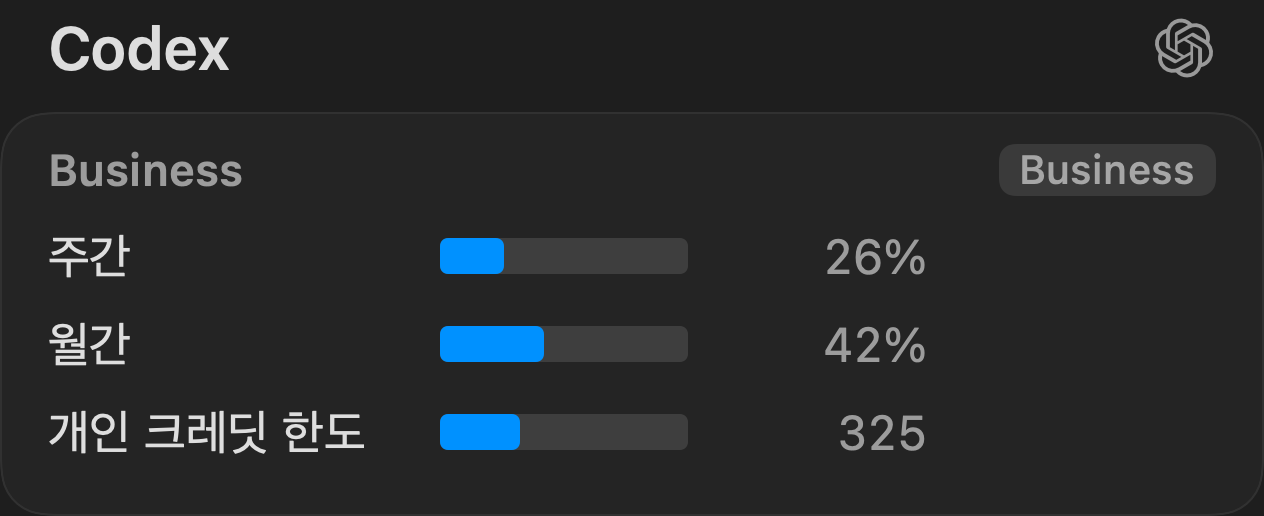
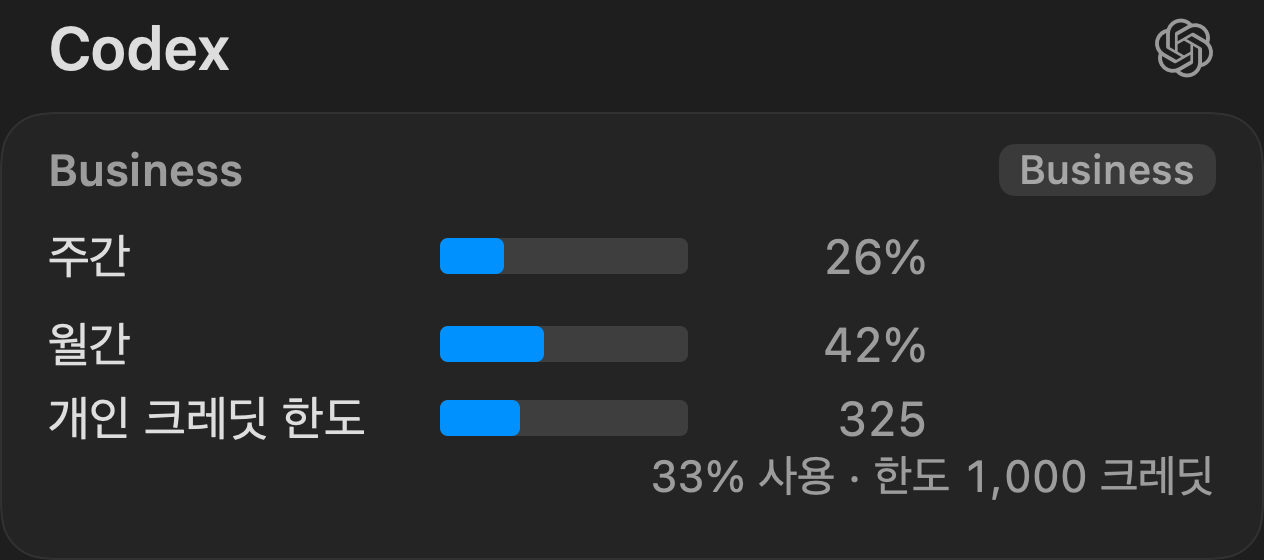
fix(codex): show individual credit allowance and utilization

diff --git a/Tests/EgasuTests/CodexDashboardRenderingTests.swift b/Tests/EgasuTests/CodexDashboardRenderingTests.swift
@@ -3,6 +3,51 @@ import XCTest
 @testable import Egasu
 
 extension DashboardSnapshotTests {
+    func testCodexBusinessPersonalLimitSummaryFollowsUsedAndLeft() {
+        var data = WidgetData(
+            title: "Individual Credits", icon: .providerMark("codex"), kind: .count, used: 898.386, limit: 2500)
+        let id = "codex@fixture.individualCredits"
+        for (language, used, left) in [
+            (LanguageSetting.english, "36% used · Limit 2,500 credits", "64% left · Limit 2,500 credits"),
+            (.korean, "36% 사용 · 한도 2,500 크레딧", "64% 남음 · 한도 2,500 크레딧"),
+            (.japanese, "36% 使用済み · 上限 2,500 クレジット", "残り 64% · 上限 2,500 クレジット")
+        ] {
+            L10n.withLanguage(language) {
+                data.displayMode = .used
+                let row = line(id, data).dashboardRow()
+                XCTAssertEqual(row.limitSummary, used)
+                guard case .bar(_, _, let value, _, _) = row.mark else { return XCTFail("Missing credit meter") }
+                XCTAssertEqual(value, "898.4")
+                data.displayMode = .remaining
+                XCTAssertEqual(line(id, data).dashboardRow().limitSummary, left)
+            }
+        }
+        L10n.withLanguage(.english) {
+            data.limit = 1000
+            data.used = 325
+            data.displayMode = .used
+            XCTAssertEqual(line(id, data).dashboardRow().limitSummary, "33% used · Limit 1,000 credits")
+            data.displayMode = .remaining
+            XCTAssertEqual(line(id, data).dashboardRow().limitSummary, "68% left · Limit 1,000 credits")
+
+            data.limit = 2500
+            data.used = 2500
+            data.displayMode = .used
+            XCTAssertEqual(line(id, data).dashboardRow().limitSummary, "100% used · Limit 2,500 credits")
+            data.displayMode = .remaining
+            XCTAssertEqual(line(id, data).dashboardRow().limitSummary, "0% left · Limit 2,500 credits")
+            data.used = 3000
+            data.displayMode = .used
+            let overLimit = line(id, data).dashboardRow()
+            XCTAssertEqual(overLimit.limitSummary, "120% used · Limit 2,500 credits")
+            guard case .bar(let fill, _, _, _, _) = overLimit.mark else { return XCTFail("Missing credit meter") }
+            XCTAssertEqual(fill, 1)
+            data.displayMode = .remaining
+            XCTAssertEqual(line(id, data).dashboardRow().limitSummary, "0% left · Limit 2,500 credits")
+            XCTAssertNil(line("codex@fixture.monthly", data).dashboardRow().limitSummary)
+        }
+    }
+
     func testCodexBusinessIndividualCreditsRenderOnlyOnTheAccountWithAReportedLimit() throws {
         let now = Date()
         let accountID = "codex@fixture"
@@ -28,11 +73,21 @@ extension DashboardSnapshotTests {
         try L10n.withLanguage(.korean) {
             let account = DashboardAccount(provider: runtime.provider, providerName: "Codex", name: "Business", lines: rows)
             let family = DashboardFamily(id: "codex", provider: runtime.provider, displayName: "Codex", accounts: [account])
-            let view = DashboardProviderSection(family: family) { account in
-                DashboardAccountRows(account: account, plan: mapped.plan)
+            let model = try XCTUnwrap(rows.last).dashboardRow(now: now)
+            var noSummary = model
+            noSummary.limitSummary = nil
+            for layout in [DashboardLayoutStyle.minimal, .cards] {
+                let reading = try render(DashboardMetricRow(model: model, layoutStyle: layout), appearance: .dark)
+                let baseline = try render(DashboardMetricRow(model: noSummary, layoutStyle: layout), appearance: .dark)
+                XCTAssertGreaterThan(reading.size.height, baseline.size.height)
+
+                let view = DashboardProviderSection(family: family, layoutStyle: layout) { account in
+                    DashboardAccountRows(account: account, plan: mapped.plan, layoutStyle: layout)
+                }
+                let image = try render(
+                    view, appearance: .dark, name: layout == .minimal ? "codex-business-individual-credits" : nil)
+                XCTAssertGreaterThan(image.size.height, DashboardGrid.rowHeight * 3)
             }
-            let image = try render(view, appearance: .dark, name: "codex-business-individual-credits")
-            XCTAssertGreaterThan(image.size.height, DashboardGrid.rowHeight * 3)
         }
     }
 }

diff --git a/Sources/Egasu/Views/Dashboard/DashboardMetricRow.swift b/Sources/Egasu/Views/Dashboard/DashboardMetricRow.swift
@@ -18,6 +18,28 @@ struct DashboardMetricRow: View {
 
     var body: some View {
         Group {
+            if let summary = model.limitSummary {
+                VStack(alignment: .leading, spacing: 0) {
+                    row
+                    Text(summary)
+                        .font(Self.resetFont)
+                        .foregroundStyle(.secondary)
+                        .monospacedDigit()
+                        .fixedSize(horizontal: false, vertical: true)
+                        .frame(maxWidth: .infinity, alignment: .trailing)
+                        .padding(.bottom, 4)
+                }
+            } else {
+                row
+            }
+        }
+        .font(Self.font)
+        .frame(maxWidth: .infinity, minHeight: DashboardGrid.rowHeight, alignment: .leading)
+        .accessibilityElement(children: .combine)
+    }
+
+    private var row: some View {
+        Group {
             switch model.mark {
             case .bar(let fill, let severity, let value, let reset, let isUsedUp):
                 Group {
@@ -94,9 +116,6 @@ struct DashboardMetricRow: View {
                 }
             }
         }
-        .font(Self.font)
-        .frame(maxWidth: .infinity, minHeight: DashboardGrid.rowHeight, alignment: .leading)
-        .accessibilityElement(children: .combine)
     }
 
     private var label: some View {

diff --git a/Sources/Egasu/Models/DashboardRowModel.swift b/Sources/Egasu/Models/DashboardRowModel.swift
@@ -21,11 +21,28 @@ struct DashboardRowModel: Equatable {
     /// 카드형 한도 행의 전체 값·초기화 설명 — 한 줄 격자는 기존 축약 표기 유지.
     var cardValue: String?
     var cardReset: String?
+    var limitSummary: String?
 
     /// 소진되어 그릴 막대가 없는 한도 — 행 50% 불투명.
     var isFaded: Bool {
         guard case .bar(let fill, _, _, _, let isUsedUp) = mark else { return false }
         return isUsedUp && fill == 0
+    }
+}
+
+extension DashboardLine {
+    func dashboardRow(now: Date = Date()) -> DashboardRowModel {
+        var row = data.dashboardRow(now: now)
+        guard ProviderAccountID.canonicalMetricID(id) == "codex.individualCredits",
+            case .bar = row.mark, let limit = data.limit, limit > 0
+        else { return row }
+
+        let percent = MetricFormatter.utilization(data.displayedValue / limit)
+        let usage = MetricFormatter.usageValue(percent, word: data.displayMode == .used ? "used" : "left")
+        let count = MetricFormatter.number(limit, kind: .count, style: .full)
+        let allowance = MetricFormatter.labelledValue(count, label: "credits")
+        row.limitSummary = L10n.metrics("%@ · Limit %@", usage, allowance)
+        return row
     }
 }
 

diff --git a/Sources/Egasu/Views/WidgetGroupedListView.swift b/Sources/Egasu/Views/WidgetGroupedListView.swift
@@ -222,7 +222,10 @@ struct WidgetGroupedListView: View {
             active: $activeMetricID,
             lift: $reorderLift,
             makeLift: { value in
-                let preview = DashboardMetricRow(model: line.data.dashboardRow(), chartPoints: line.data.chartPoints, layoutStyle: layoutStyle, valueTooltip: line.data.isChart ? line.data.chartNote : nil)
+                let preview = DashboardMetricRow(
+                    model: line.dashboardRow(), chartPoints: line.data.chartPoints, layoutStyle: layoutStyle,
+                    valueTooltip: line.data.isChart ? line.data.chartNote : nil
+                )
                     .padding(.horizontal, DashboardGrid.cardPadding)
                     .liftedRowSurface()
                 return ReorderLift.make(id: line.id, payload: .view(AnyView(preview)), value: value, frames: rowFrames)

diff --git a/Sources/Egasu/Support/MetricFormatter.swift b/Sources/Egasu/Support/MetricFormatter.swift
@@ -42,6 +42,11 @@ enum MetricFormatter {
         }
     }
 
+    static func utilization(_ fraction: Double) -> String {
+        fraction.formatted(
+            .percent.precision(.fractionLength(0)).rounded(rule: .toNearestOrAwayFromZero).locale(locale))
+    }
+
     /// 단위 라벨이 붙은 값(예: "772 credits"). token·dollar·percent 값은 의도적으로 라벨 없이 bare 렌더("56.9M", "$4.08", "95%").
     static func string(for value: MetricValue, style: Style) -> String {
         let text = number(value.number, kind: value.kind, style: style)

diff --git a/Sources/Egasu/Views/Dashboard/DashboardProviderSection.swift b/Sources/Egasu/Views/Dashboard/DashboardProviderSection.swift
@@ -253,7 +253,7 @@ struct DashboardAccountRows: View {
             } else {
                 DashboardLineStack(account: account, layoutStyle: layoutStyle) { line in
                     DashboardMetricRow(
-                        model: line.data.dashboardRow(), chartPoints: line.data.chartPoints, layoutStyle: layoutStyle,
+                        model: line.dashboardRow(), chartPoints: line.data.chartPoints, layoutStyle: layoutStyle,
                         valueTooltip: line.data.isChart ? line.data.chartNote : nil
                     )
                 }

diff --git a/Sources/Egasu/Views/Dashboard/DashboardLiveRow.swift b/Sources/Egasu/Views/Dashboard/DashboardLiveRow.swift
@@ -66,7 +66,7 @@ struct DashboardLiveRow: View {
     private func row(now: Date) -> some View {
         let data = line.data.presented(at: now)
         return DashboardMetricRow(
-            model: data.dashboardRow(now: now),
+            model: line.dashboardRow(now: now),
             chartPoints: data.chartPoints,
             layoutStyle: layoutStyle,
             onToggleMeterStyle: data.hasMeterStyleToggle ? onToggleMeterStyle : nil,

diff --git a/README.md b/README.md
@@ -65,6 +65,7 @@ Spotlight에서도 `egasu`, `openusage`, `usage`로 검색해 앱 실행 가능.
 - **[All Usage](/docs/dashboard.md#all-usage).** 등록 계정별 사용량·초기화 시각·사용 속도 표시.
   Minimal은 프로바이더별 계정 묶음, Cards는 계정별 독립 카드.
   Codex Business 개인 크레딧 한도는 일반 월간 한도 아래에 표시.
+  개인 크레딧 행에서 전체 상한과 사용률 또는 잔여율 확인.
   행 우클릭으로 지표 숨기기·Priority 고정·새로 고침·Accounts 관리 연결.
   [프로바이더 섹션 공유 이미지](/docs/dashboard.md#공유)는 표시 중인 모든 계정과 지표 순서를 반영.
 - **[계정 전환](/docs/cli.md#계정).** Claude·Codex의 기본 인증 저장소를 쓰는 새 CLI 세션에 선택한 로그인 적용.

diff --git a/docs/providers/codex.md b/docs/providers/codex.md
@@ -3,6 +3,7 @@
 Codex CLI 로그인으로 ChatGPT/Codex 구독 한도를 추적하고, Codex 로그인 없이 작동하는 선택적 공개 Reset Watch 예측 제공.
 
 Business 계정이 개인 크레딧 상한과 사용량 또는 잔여량을 제공하면 일반 월간 한도 아래에 개인 크레딧 한도 표시.
+전체 상한과 비율을 같은 행에 표시. 사용량을 보면 사용률, 잔여량을 보면 잔여율 표시.
 계정별로 표시 위치 변경과 우선순위 고정 가능.
 CLI와 로컬 HTTP API의 `individualCredits`에 사용량·상한·잔여량 제공.
 개인 지출 상한은 소프트 한도의 구독 사용량 검사에서 제외.
